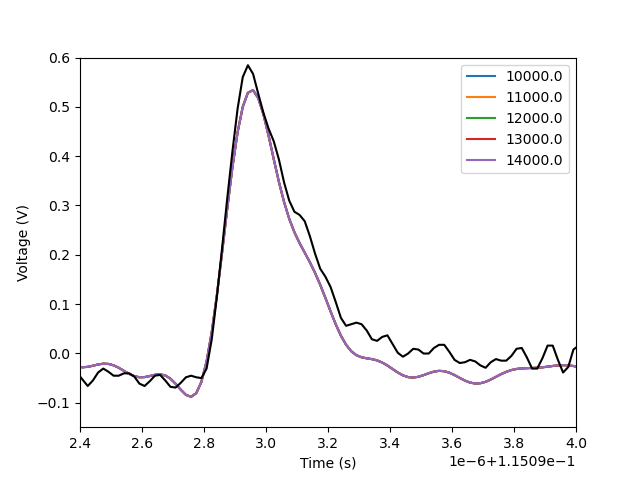
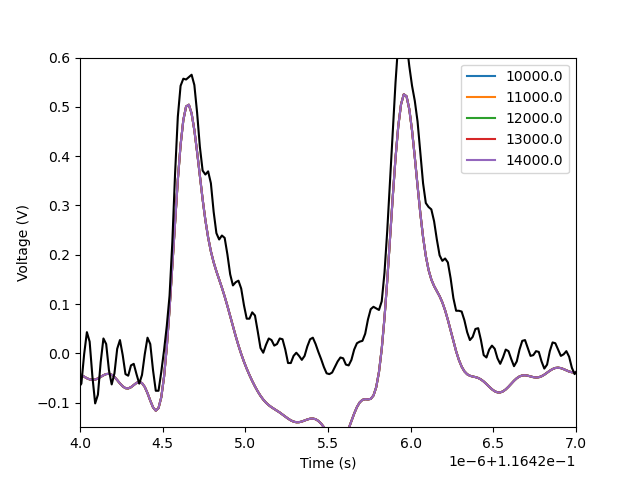
Digital Filtering

diff --git a/Digital_Filtering/python/Noise_filter.py b/Digital_Filtering/python/Noise_filter.py
@@ -29,11 +29,11 @@ def filter_script(d_file, chan_num,
 
     d.apply_lp_filter()
 
-    # d.set_high_pass(high_pass_f, high_pass_a)
+    d.set_high_pass(high_pass_f, high_pass_a)
 
-    # d.calc_high_pass()
+    d.calc_high_pass()
 
-    # d.apply_hp_filter()
+    d.apply_hp_filter()
 
     d.calc_cut_numba(calc_cut_numba_a, calc_cut_numba_b)
 
@@ -110,9 +110,9 @@ B.pl.figure()
 #%% HIGH PASS FREQ
 
 for i in high_pass_f[:5]:
-    filter_script(d_file[1], 0, 5e6, 4e5, i, 1e4, 5000., 99999.99999999999)
+    filter_script(d_file[1], 0, 3e6, 3e5, i, 1e4, 5000., 99999.99999999999)
     print(i)
-    B.pl.xlim(0.1150924, 0.115094)
+    B.pl.xlim(0.116424, 0.116427)
     B.pl.ylim(-0.15, 0.6)
     B.pl.legend([high_pass_f[0], high_pass_f[1], high_pass_f[2], high_pass_f[3], high_pass_f[4]], loc ='best')  
 plot_raw(d_file[1], 0)
@@ -120,9 +120,9 @@ B.pl.figure()
     
 
 for i in high_pass_a[5:10]:
-    filter_script(d_file[1], 0, 5e6, 4e5, i, 1e4, 5000., 99999.99999999999)
+    filter_script(d_file[1], 0, 3e6, 3e5, i, 1e4, 5000., 99999.99999999999)
     print(i)
-    B.pl.xlim(0.1150924, 0.115094)
+    B.pl.xlim(0.116424, 0.116427)
     B.pl.ylim(-0.15, 0.6)
     B.pl.legend([high_pass_f[5], high_pass_f[6], high_pass_f[7], high_pass_f[8], high_pass_f[9]], loc ='best')
 plot_raw(d_file[1], 0)
@@ -130,9 +130,9 @@ B.pl.figure()
     
 
 for i in high_pass_f[10:15]:
-    filter_script(d_file[1], 0, 5e6, 4e5, i, 1e4, 5000., 99999.99999999999)
+    filter_script(d_file[1], 0, 3e6, 3e5, i, 1e4, 5000., 99999.99999999999)
     print(i)
-    B.pl.xlim(0.1150924, 0.115094)
+    B.pl.xlim(0.116424, 0.116427)
     B.pl.ylim(-0.15, 0.6)
     B.pl.legend([high_pass_f[10], high_pass_f[11], high_pass_f[12], high_pass_f[13], high_pass_f[14]], loc = 'best')
 plot_raw(d_file[1], 0)
@@ -140,9 +140,9 @@ B.pl.figure()
 
 
 for i in high_pass_f[15:20]:
-    filter_script(d_file[1], 0, 5e6, 4e5, i, 1e4, 5000., 99999.99999999999)
+    filter_script(d_file[1], 0, 3e6, 3e5, i, 1e4, 5000., 99999.99999999999)
     print(i)
-    B.pl.xlim(0.1150924, 0.115094)
+    B.pl.xlim(0.116424, 0.116427)
     B.pl.ylim(-0.15, 0.6)
     B.pl.legend([high_pass_f[15], high_pass_f[16], high_pass_f[17], high_pass_f[18], high_pass_f[19]], loc = 'best')
 plot_raw(d_file[1], 0)   
@@ -155,7 +155,7 @@ B.pl.figure()
 for i in high_pass_a[:5]:
     filter_script(d_file[1], 0, 5e6, 4e5, 1e5, i, 5000., 99999.99999999999)
     print(i)
-    B.pl.xlim(0.1150924, 0.115094)
+    B.pl.xlim(0.116424, 0.116427)
     B.pl.ylim(-0.15, 0.6)
     B.pl.legend([high_pass_a[0], high_pass_a[1], high_pass_a[2], high_pass_a[3], high_pass_a[4]], loc ='best')  
 plot_raw(d_file[1], 0)
@@ -165,7 +165,7 @@ B.pl.figure()
 for i in high_pass_a[5:10]:
     filter_script(d_file[1], 0, 5e6, 4e5, 1e5, i, 5000., 99999.99999999999)
     print(i)
-    B.pl.xlim(0.1150924, 0.115094)
+    B.pl.xlim(0.116424, 0.116427)
     B.pl.ylim(-0.15, 0.6)
     B.pl.legend([high_pass_a[5], high_pass_a[6], high_pass_a[7], high_pass_a[8], high_pass_a[9]], loc ='best')
 plot_raw(d_file[1], 0)
@@ -175,7 +175,7 @@ B.pl.figure()
 for i in high_pass_a[10:15]:
     filter_script(d_file[1], 0, 5e6, 4e5, 1e5, i, 5000., 99999.99999999999)
     print(i)
-    B.pl.xlim(0.1150924, 0.115094)
+    B.pl.xlim(0.116424, 0.116427)
     B.pl.ylim(-0.15, 0.6)
     B.pl.legend([high_pass_a[10], high_pass_a[11], high_pass_a[12], high_pass_a[13], high_pass_a[14]], loc = 'best')
 plot_raw(d_file[1], 0)
@@ -185,7 +185,7 @@ B.pl.figure()
 for i in high_pass_a[15:20]:
     filter_script(d_file[1], 0, 5e6, 4e5, 1e5, i, 5000., 99999.99999999999)
     print(i)
-    B.pl.xlim(0.1150924, 0.115094)
+    B.pl.xlim(0.116424, 0.116427)
     B.pl.ylim(-0.15, 0.6)
     B.pl.legend([high_pass_a[15], high_pass_a[16], high_pass_a[17], high_pass_a[18], high_pass_a[19]], loc = 'best')
 plot_raw(d_file[1], 0)                
